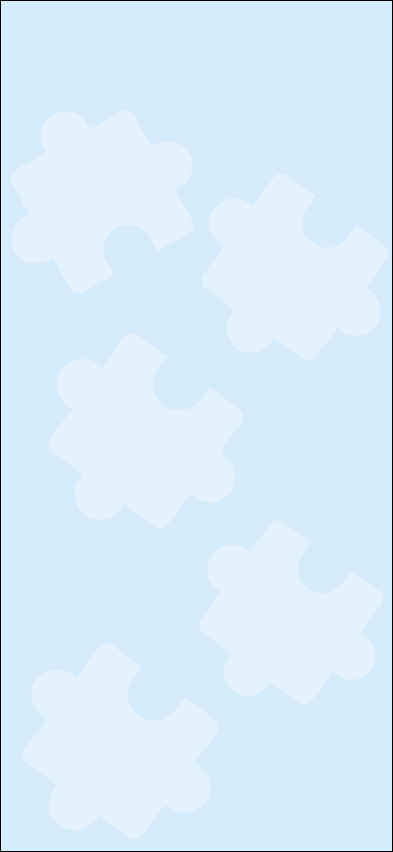
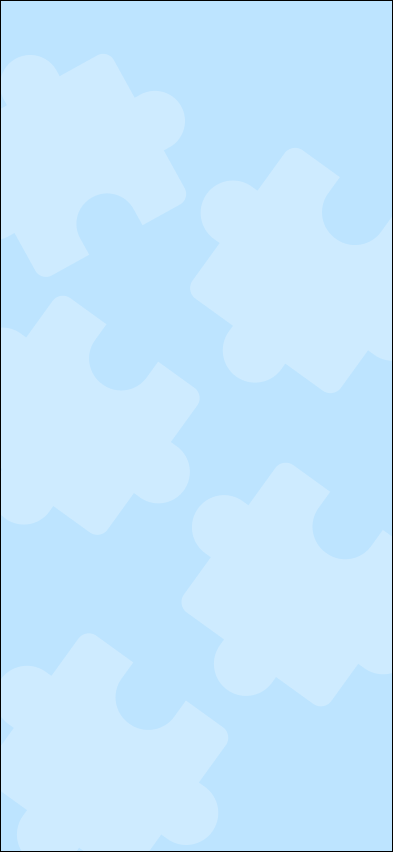
feat:adiciona tela de jogos

diff --git a/ABCapy/src/app/pages/telaJogos/gamePages.tsx b/ABCapy/src/app/pages/telaJogos/gamePages.tsx
@@ -1,13 +1,17 @@
-import { View, Pressable, Image, Text,ImageBackground } from "react-native";
+import { View, Pressable, Image, Text, ImageBackground } from "react-native";
 import React from "react";
 import { styles } from "./gameStyles";
 import Capy1 from "../../../assets/images/gameImages/Capy1.png";
-import papelParede from "../../../assets/images/gameImages/telaJogos.png"
+import telaJogos from "../../../assets/images/gameImages/telaJogos.png";
+import CardGame from "../../../assets/components/gameComponents/cardGame";
+import jogo1 from "../../../assets/images/gameImages/jogo1.png";
+import jogo2 from "../../../assets/images/gameImages/jogo2.png"
+import jogo3 from "../../../assets/images/gameImages/jogo3.png"
 
 const gamePages = () => {
   return (
     <ImageBackground
-      source={papelParede}
+      source={telaJogos}
       style={styles.container}
       resizeMode="cover"
     >
@@ -16,14 +20,27 @@ const gamePages = () => {
           <Text style={styles.btnText}>❮</Text>
         </Pressable>
       </View>
-
-
       <View style={styles.containerImg}>
+        <Text style={styles.textStyle}>O que vamos jogar?</Text>
         <Image source={Capy1} style={styles.imgStyle} />
       </View>
+      <CardGame
+        text="Siga a ordem"
+        image={jogo1}
+        onPress={() => console.log("clicou")}
+      />
+      <CardGame
+        text="jogo da memória"
+        image={jogo2}
+        onPress={() => console.log("clicou")}
+      />
+      <CardGame
+        text="Jogo do igual"
+        image={jogo3}
+        onPress={() => console.log("clicou")}
+      />
     </ImageBackground>
   );
 };
-
 
 export default gamePages;

diff --git a/ABCapy/src/assets/components/gameComponents/cardGame.tsx b/ABCapy/src/assets/components/gameComponents/cardGame.tsx
@@ -1,0 +1,34 @@
+import {
+  View,
+  Text,
+  Image,
+  Pressable,
+  ImageSourcePropType,
+} from "react-native";
+import React from "react";
+import { styles } from "./cardGameStyle";
+
+type Props = {
+  text: string;
+  image: ImageSourcePropType;
+  onPress: () => void;
+};
+
+const CardGame = ({ text, image, onPress }: Props) => {
+  return (
+    <View style={styles.cardBase}> 
+      
+ 
+      <Pressable onPress={onPress} style={styles.btnStyle}>
+        <Text style={styles.textStyle}>{text}</Text>
+        
+        <View style={styles.imgContainer}>
+          <Image style={styles.imgStyle} source={image} />
+        </View>
+      </Pressable> 
+      
+    </View> 
+  );
+};
+
+export default CardGame;

diff --git a/ABCapy/src/assets/components/gameComponents/cardGameStyle.ts b/ABCapy/src/assets/components/gameComponents/cardGameStyle.ts
@@ -1,0 +1,28 @@
+import { StyleSheet } from "react-native";
+
+export const styles = StyleSheet.create({
+  btnStyle: {
+    width: 295,
+    height: 135,
+    justifyContent: "center",
+    alignItems: "center",
+    backgroundColor: "white",
+    marginTop: 20,
+    borderRadius: 15,
+  },
+  cardBase: {
+    justifyContent: "center",
+    alignItems: "center",
+  },
+  textStyle: {
+    fontSize: 20,
+    fontWeight: "bold",
+    textTransform: "uppercase",
+    color: "#297AB8",
+  },
+
+  imgStyle: {
+    width: 262,
+    height: 96,
+  },
+});

diff --git a/ABCapy/src/app/pages/telaJogos/gameStyles.ts b/ABCapy/src/app/pages/telaJogos/gameStyles.ts
@@ -40,6 +40,16 @@ export const styles = StyleSheet.create({
   containerImg: {
     justifyContent: "center",
     alignItems: "center",
-    marginTop:40
+    marginTop:50
+    
   },
+
+  textStyle:{
+    fontSize:24,
+    fontFamily:'Poppins',
+    fontWeight:'bold',
+    textTransform:'uppercase',
+    color:'#297AB8',
+    marginTop:20
+  }
 });

diff --git a/ABCapy/src/app/_layout.tsx b/ABCapy/src/app/_layout.tsx
@@ -1,5 +1,11 @@
 import { Stack } from "expo-router";
 
-export default function RootLayout() {
-  return <Stack />;
+export default function Layout() {
+  return (
+    <Stack
+      screenOptions={{
+        headerShown: false,
+      }}
+    />
+  );
 }

diff --git a/ABCapy/src/app/index.tsx b/ABCapy/src/app/index.tsx
@@ -1,5 +1,5 @@
 import { Text, View, StyleSheet } from "react-native";
-import Login from "@/app/pages/login";
+
 
 export default function Index() 
 {
